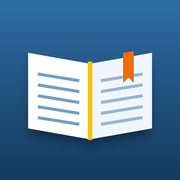
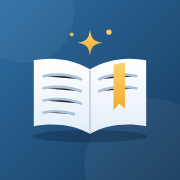
شعاران جديدان للتطبيقين
Claude-Session: https://claude.ai/code/session_017z6bQJQzR3ddprLFgzisze

diff --git a/index.html b/index.html
@@ -8,8 +8,8 @@
 <meta name="mobile-web-app-capable" content="yes">
 <meta name="apple-mobile-web-app-title" content="مكتبة الصفاء">
 <meta name="theme-color" content="#1F4E79">
-<link rel="apple-touch-icon" href="icon-180.png">
-<link rel="icon" href="icon-192.png">
+<link rel="apple-touch-icon" href="icon-180.png?v=2">
+<link rel="icon" href="icon-192.png?v=2">
 <link rel="manifest" href="manifest.json">
 <style>
 body{margin:0;min-height:100vh;display:flex;align-items:center;justify-content:center;background:linear-gradient(160deg,#1F4E79,#2E6DA4);font-family:system-ui,-apple-system,"Segoe UI",Tahoma,sans-serif;color:#fff;text-align:center}
@@ -20,14 +20,14 @@ button{font:inherit;padding:10px 22px;border:0;border-radius:10px;background:#ff
 <script>
 window.APP = {
   id: 'safa', mode: 'safa', short: 'مكتبة الصفاء', color: '#1F4E79',
-  icon: 'icon-180.png', manifest: 'manifest.json',
+  icon: 'icon-180.png?v=2', manifest: 'manifest.json',
   exec: 'https://script.google.com/macros/s/AKfycbw-CmHVeyifOKvcB8GABaK8BfZ4eogN_IW3uJvzNEfhREqqa231a6JDncaAA7Ii7wbTCg/exec'
 };
 </script>
 <script src="core.js"></script>
 </head>
 <body>
-<div><img src="icon-192.png" alt=""><h1>مكتبة الصفاء</h1><div id="st">جارٍ الفتح…</div></div>
+<div><img src="icon-192.png?v=2" alt=""><h1>مكتبة الصفاء</h1><div id="st">جارٍ الفتح…</div></div>
 <script src="loader.js"></script>
 </body>
 </html>

diff --git a/ghadaq/index.html b/ghadaq/index.html
@@ -8,8 +8,8 @@
 <meta name="mobile-web-app-capable" content="yes">
 <meta name="apple-mobile-web-app-title" content="يومية غدق">
 <meta name="theme-color" content="#0E6B5E">
-<link rel="apple-touch-icon" href="icon-180.png">
-<link rel="icon" href="icon-192.png">
+<link rel="apple-touch-icon" href="icon-180.png?v=2">
+<link rel="icon" href="icon-192.png?v=2">
 <link rel="manifest" href="manifest.json">
 <style>
 body{margin:0;min-height:100vh;display:flex;align-items:center;justify-content:center;background:linear-gradient(160deg,#0E6B5E,#13907F);font-family:system-ui,-apple-system,"Segoe UI",Tahoma,sans-serif;color:#fff;text-align:center}
@@ -20,14 +20,14 @@ button{font:inherit;padding:10px 22px;border:0;border-radius:10px;background:#ff
 <script>
 window.APP = {
   id: 'ghadaq', mode: 'ghadaq', root: '../', short: 'يومية غدق', color: '#0E6B5E',
-  icon: 'icon-180.png', manifest: 'manifest.json',
+  icon: 'icon-180.png?v=2', manifest: 'manifest.json',
   exec: 'https://script.google.com/macros/s/AKfycbwMsSXYzVTvArFgfCZDcsQjiVQBWIeCD21rIu2pozaf8n3_Q8Tahl5hCuI8DD6goGvwRQ/exec'
 };
 </script>
 <script src="../core.js"></script>
 </head>
 <body>
-<div><img src="icon-192.png" alt=""><h1>يومية غدق</h1><div id="st">جارٍ الفتح…</div></div>
+<div><img src="icon-192.png?v=2" alt=""><h1>يومية غدق</h1><div id="st">جارٍ الفتح…</div></div>
 <script src="../loader.js"></script>
 </body>
 </html>

diff --git a/sw.js b/sw.js
@@ -1,5 +1,5 @@
 /* يحفظ ملفات التطبيق في الجهاز ليفتح دون اتصال */
-var V = 'safa-v30';
+var V = 'safa-v31';
 var FILES = ['./', './index.html', './core.js', './loader.js', './ui.js', './ui2.js', './ui3.js', './icon-180.png', './icon-192.png', './icon-512.png', './manifest.json',
   './ghadaq/', './ghadaq/index.html', './ghadaq/manifest.json', './ghadaq/icon-180.png', './ghadaq/icon-192.png', './ghadaq/icon-512.png'];
 self.addEventListener('install', function (e) {
